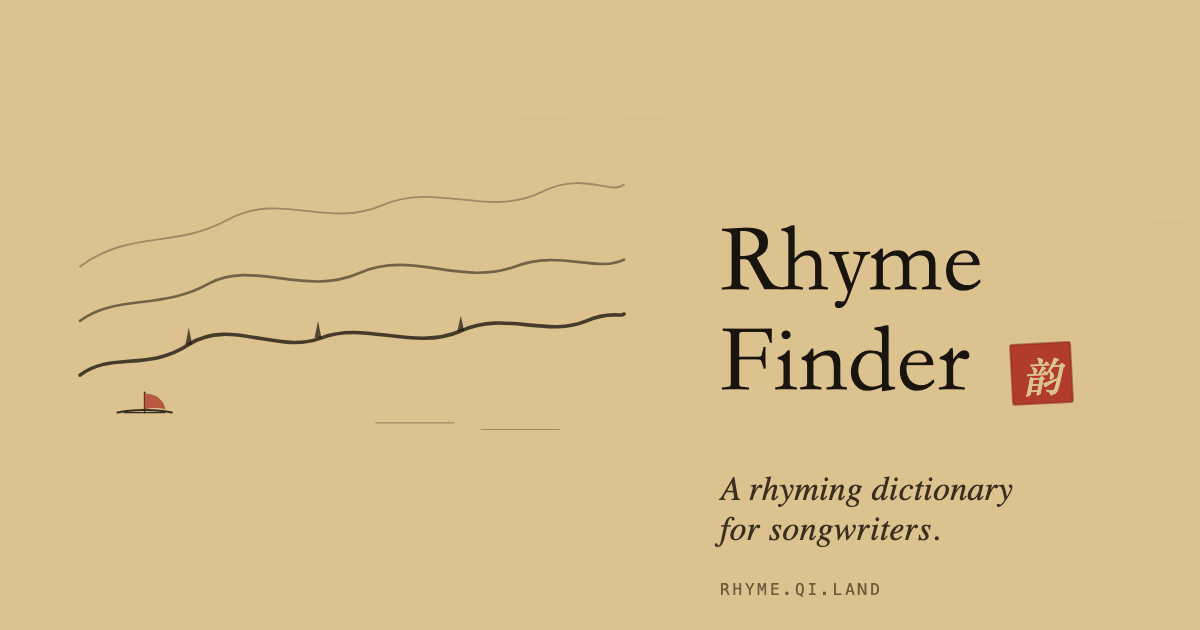
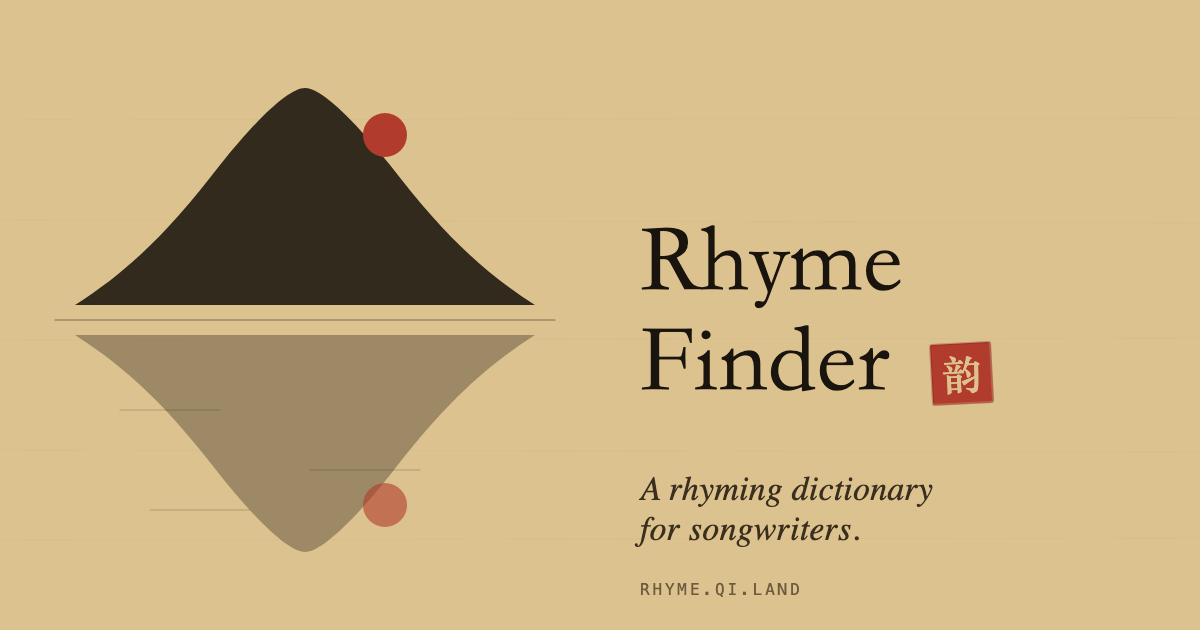
Rhyme Finder: OG card → reflection composition; add JSON-LD structured data
OG image now centers the mountain-and-reflection visual the favicon
explorations surfaced: two vermilion suns mirrored across a horizon —
a word finding itself in another, drawn as a mountain finding itself
in water. Carries the rhyme metaphor more directly than the prior
generic shanshui-plus-wordmark layout.

JSON-LD WebApplication schema gives search engines a structured
hint that this is a free, browser-based reference tool for
songwriters — useful for Rich Result eligibility.

diff --git a/rhyme-finder/index.html b/rhyme-finder/index.html
@@ -34,6 +34,35 @@
       rel="stylesheet"
     />
     <link rel="stylesheet" href="/rhyme-finder/styles.css" />
+
+    <!-- JSON-LD structured data — tells Google this is a free web app
+         aimed at songwriters; unlocks Rich Results in search listings. -->
+    <script type="application/ld+json">
+    {
+      "@context": "https://schema.org",
+      "@type": "WebApplication",
+      "name": "Rhyme Finder",
+      "url": "https://rhyme.qi.land/",
+      "description": "A rhyming dictionary for songwriters — organized by Pat Pattison's stability tiers, with cliché flags and line-end examples from real songs.",
+      "applicationCategory": "ReferenceApplication",
+      "operatingSystem": "Any (web browser)",
+      "browserRequirements": "Requires JavaScript and a modern browser",
+      "offers": {
+        "@type": "Offer",
+        "price": "0",
+        "priceCurrency": "USD"
+      },
+      "creator": {
+        "@type": "Person",
+        "name": "Qi Liu"
+      },
+      "audience": {
+        "@type": "Audience",
+        "audienceType": "songwriters, lyricists"
+      },
+      "keywords": "rhyming dictionary, songwriting, lyrics, Pattison stability framework, rhyme tiers, perfect rhyme, slant rhyme, assonance"
+    }
+    </script>
   </head>
   <body>
     <div class="rf-marginalia" aria-hidden="true"></div>
